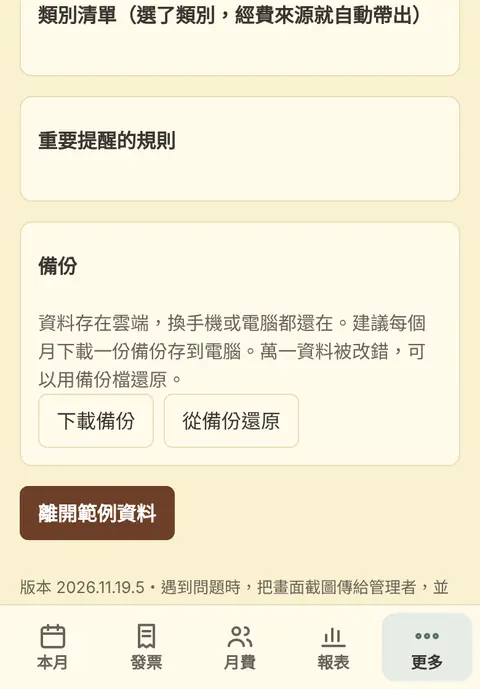
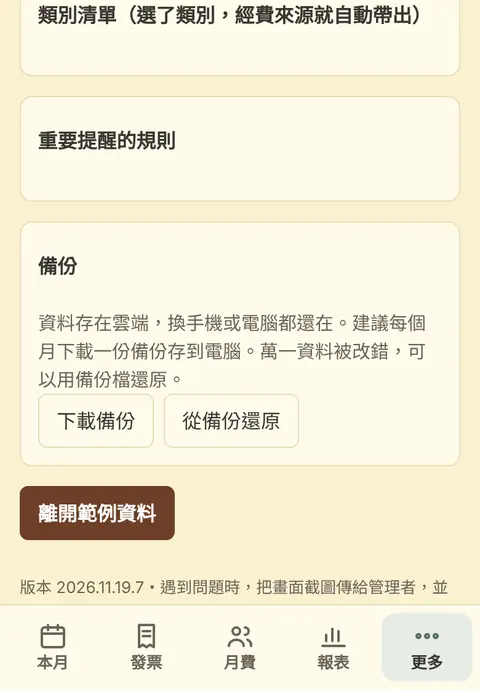
領款收據：生日禮金、考核獎金、外聘督導費的憑證印粘存單＋領據（地址、身分證只填不存）；考核獎金一次填所有員工；收據可勾選列印
Claude-Session: https://claude.ai/code/session_01Q8m2fzZpMdR6GMxaE229qM

diff --git a/app.js b/app.js
@@ -2,7 +2,7 @@ import { createFirebaseStore, createDemoStore } from './data.js';
 import { colName } from './xlsx.js';
 import { sampleData } from './sample.js';
 
-const VERSION = '2026.11.19.6';
+const VERSION = '2026.11.19.7';
 const $ = s => document.querySelector(s);
 const esc = s => String(s ?? '').replace(/[&<>"']/g, c => ({ '&': '&amp;', '<': '&lt;', '>': '&gt;', '"': '&quot;', "'": '&#39;' }[c]));
 const fmt = n => (n < 0 ? '-' : '') + Math.abs(Math.round(n || 0)).toLocaleString('en-US');
@@ -69,13 +69,17 @@ const openInv = () => invoices().filter(x => !x.voucher);
 const isBdayV = v => v.kind === 'hr' && (v.hrType === 'bday' || /生日禮金/.test(v.desc || ''));
 function bdayPetty(v) {
   const dt = new Date(v.createdAt || Date.now()), same = dt.getFullYear() - 1911 === v.y && dt.getMonth() + 1 === v.m;
-  const [c, ...rest] = (v.desc || '').split('-');
-  return { id: 'v:' + v.no, isV: true, vno: v.no, payer: '主任', y: v.y, m: v.m, d: same ? dt.getDate() : 1, ym: v.ym, cat: rest.length ? c : '員工福利', desc: rest.length ? rest.join('-') : v.desc, qty: 1, price: +v.amount || 0, voucher: v.no };
+  const [c, ...rest] = (v.desc || '').split('-'), old = rest.length && c === '員工福利';
+  return { id: 'v:' + v.no, isV: true, vno: v.no, payer: '主任', y: v.y, m: v.m, d: same ? dt.getDate() : 1, ym: v.ym, cat: '員工福利', desc: old ? rest.join('-') : v.desc, qty: 1, price: +v.amount || 0, voucher: v.no };
 }
 const pettyOpen = () => [...invoices().filter(x => x.payer === '主任' && !x.settled), ...vouchers().filter(v => isBdayV(v) && !v.settled).map(bdayPetty)];
 const vouchers = () => S().vouchers.filter(v => !v.deleted);
 const vouchersOf = (y, m) => vouchers().filter(v => v.y === y && v.m === m);
-const printableOf = (y, m) => vouchersOf(y, m).filter(v => v.kind === 'inv').sort((a, b) => a.no.localeCompare(b.no));
+// 要附「領款收據」的憑證：生日禮金、考核獎金（人事憑證），外聘督導費（發票合併的憑證）
+const isMeritV = v => v.kind === 'hr' && (v.hrType === 'merit' || /考核獎金/.test(v.desc || ''));
+const isExtV = v => v.kind === 'inv' && (/外聘督導/.test(v.cat || '') || (v.ids || []).some(id => /外聘督導/.test((S().invoices.find(x => x.id === id) || {}).cat || '')));
+const rcvKind = v => v.kind === 'hr' ? (isBdayV(v) ? 'bday' : isMeritV(v) ? 'merit' : '') : isExtV(v) ? 'ext' : '';
+const printableOf = (y, m) => vouchersOf(y, m).filter(v => v.kind === 'inv' || rcvKind(v)).sort((a, b) => a.no.localeCompare(b.no));
 const unprintedAll = () => vouchers().filter(v => v.kind === 'inv' && !v.printed);
 const pre = (y, m) => N.code + y + String(m).padStart(2, '0');
 // 下一個憑證編號：保留號碼之後，最小的還沒用過的號碼（垃圾桶裡的也算用過；在垃圾桶「永久刪除」後才空出來）
@@ -550,8 +554,8 @@ function fee() {
   $('#view').innerHTML = `
   <div class="rdate"><label for="rDate">${m} 月收據日期</label><input type="date" id="rDate" value="${isoOf(rd)}" max="9999-12-31">${rd.set ? '<button type="button" class="btn" id="rDateReset">改回預設</button>' : ''}<span class="meta">收據上印「${rocDate(rd)}」。${rd.set ? '這是這個月自己選的日期。' : `預設每月 ${+N.rcptDay || 15} 號，遇週末順延，可以改成別天。`}</span></div>
   <div class="tally"><span>應收<b>${fmt(total)}</b></span><span>收據號碼<b style="font-size:18px">${kids.length ? rcptNo(Math.min(...nos)) + '–' + rcptNo(Math.max(...nos)) : '—'}</b></span><span class="${d.rcptPrinted ? '' : 'warn'}">收據<b style="font-size:18px">${d.rcptPrinted ? '已印' : '還沒印'}</b></span></div>
-  <div class="actions start"><button type="button" class="btn primary" id="printRcptAll" ${kids.length ? '' : 'aria-disabled="true"'}>列印收據</button><button type="button" class="btn" id="addKid">＋ 新增幼兒</button><button type="button" class="btn" id="fpStart" ${FP ? 'aria-pressed="true"' : ''}>勾選改日期</button><button type="button" class="btn" id="borrow">協會借用號碼</button></div>
-  ${FP ? '<p class="status info">勾選要改日期的收據（月費、請款收據都可以），在下方選日期後按「套用日期」。</p>' : ''}
+  <div class="actions start"><button type="button" class="btn primary" id="printRcptAll" ${kids.length ? '' : 'aria-disabled="true"'}>列印收據</button><button type="button" class="btn" id="addKid">＋ 新增幼兒</button><button type="button" class="btn" id="fpStart" ${FP ? 'aria-pressed="true"' : ''}>勾選收據</button><button type="button" class="btn" id="borrow">協會借用號碼</button></div>
+  ${FP ? '<p class="status info">勾選收據後，可以只印勾選的幾張（按下方「列印勾選的」，號碼從下一號依序給勾選的），或在下方選日期後按「套用日期」改日期。</p>' : ''}
   <p class="hint">名單沿用上個月，月費和餐點費依上課天數和生日自動算。有延托、保險、退費的孩子，按「修改」再填。${d.rcptPrinted ? '印過的號碼不會再變；之後新增的孩子會用新的號碼。' : '收據號碼在列印時確定，印之前可能會變。'}</p>
   ${earlierUnprinted(y, m) ? `<p class="status">${earlierUnprinted(y, m)} 月的收據還沒印。先印這個月的話，${earlierUnprinted(y, m)} 月的號碼會排在這個月後面。</p>` : ''}
   ${kids.length ? `<div class="list">${kids.map((k, i) => {
@@ -569,13 +573,29 @@ function fee() {
   ${rcptSkip(y).length ? `<p class="hint">${y} 年已標記協會借用：${rcptSkip(y).slice(-10).map(rcptNo).join('、')} 號，收據會跳過這些號碼。</p>` : ''}
   ${FP ? `<div style="height:150px"></div><div class="mergebar" id="fpBar"><div class="main"><div class="title" id="fpCount">已選 ${FP.size} 張</div></div>
     <label class="fpdate">日期<input type="date" id="fpDate" value="${FPD || isoOf(rd)}" max="9999-12-31"></label>
-    <button type="button" class="btn" id="fpAll">全選月費</button><button type="button" class="btn" id="fpCancel">取消</button>
-    <button type="button" class="btn primary" id="fpApply" aria-disabled="${!FP.size}">套用日期</button></div>` : ''}`;
+    <button type="button" class="btn" id="fpApply" aria-disabled="${!FP.size}">套用日期</button>
+    <button type="button" class="btn" id="fpAll">${kids.length && kids.every(k => FP.has('k:' + k.id)) ? '全部不選' : '全選月費'}</button><button type="button" class="btn" id="fpCancel">取消</button>
+    <button type="button" class="btn primary" id="fpPrint" aria-disabled="${![...FP].some(id => id.startsWith('k:'))}">列印勾選的</button></div>` : ''}`;
+}
+// 印月費收據：kids 可以是全部或勾選的幾位。號碼照名單順序算，勾選的先拿到號碼；全部都印過才算「已印」
+function printReceipts(y, m, kids, hasXr) {
+  const all = monthKids(y, m), nos = receiptNos(y, m, kids);          // 印過的用原號碼，沒印過的從下一個空號依序給
+  return openPreview({
+    title: `收據（${kids.length} 位，每頁一位三聯）`, pages: kids.map((k, i) => receiptPage(k, nos[i], y, m)), goText: `列印收據（${kids.length} 頁）`,
+    onPrint: () => {
+      const d = monthDoc(y, m), fees = {}, rcptNos = {}; kids.forEach((k, i) => { fees[k.id] = (d.fees || {})[k.id] || {}; rcptNos[k.id] = nos[i] });
+      const done = all.every(k => rcptNos[k.id] || (d.rcptNos || {})[k.id]);
+      store.set('months', ymKey(y, m), { y, m, fees, rcptNos, ...(done ? { rcptPrinted: true } : {}) }).catch(fail());
+      const top = Math.max(...nos); if (top + 1 > rcptNext(y)) store.setSettings({ receiptNextY: { [y]: top + 1 } }).catch(fail());
+      if (kids.length < all.length) { FP = null; render() }
+      toast(done ? '收據已印好。' : `已印 ${kids.length} 張，還有 ${all.filter(k => !rcptNos[k.id] && !(d.rcptNos || {})[k.id]).length} 張沒印。${hasXr ? '請款收據請在下方各自按「列印」。' : ''}`);
+    }
+  });
 }
 // 勾選改日期：FP 是勾選的收據（k:幼兒 id、x:請款收據 id），FPD 是選的日期
 let FP = null, FPD = '';
 const fpTick = (id, name) => FP ? `<button type="button" class="tick" role="checkbox" aria-checked="${FP.has(id)}" data-fpick="${esc(id)}" aria-label="選取 ${esc(name)}"><i>✓</i>選取</button>` : '';
-function fpSync() { $('#fpCount').textContent = `已選 ${FP.size} 張`; $('#fpApply').setAttribute('aria-disabled', String(!FP.size)); document.querySelectorAll('[data-fpick]').forEach(b => b.setAttribute('aria-checked', FP.has(b.dataset.fpick))) }
+function fpSync() { const { y, m } = SEL_M.fee, ks = monthKids(y, m); $('#fpCount').textContent = `已選 ${FP.size} 張`; $('#fpApply').setAttribute('aria-disabled', String(!FP.size)); $('#fpPrint').setAttribute('aria-disabled', String(![...FP].some(id => id.startsWith('k:')))); $('#fpAll').textContent = ks.length && ks.every(k => FP.has('k:' + k.id)) ? '全部不選' : '全選月費'; document.querySelectorAll('[data-fpick]').forEach(b => b.setAttribute('aria-checked', FP.has(b.dataset.fpick))) }
 function fpApply() {
   const { y, m } = SEL_M.fee, iso = $('#fpDate').value, r = fromISO(iso), d = monthDoc(y, m);
   if (!r) return toast('請選日期。'); if (!FP.size) return toast('請先勾選收據。');
@@ -743,8 +763,8 @@ function vou() {
     <div class="row"><div class="main"><div class="title"><span class="amount">${pre(y, m)}01</span>　${esc(N.firstItem)}</div><div class="meta">${pill('委辦費-業務費')}</div></div><span class="amount">${fmt(d.supervisor ?? N.supervisor)}</span></div>
     ${pay.map((r, i) => `<div class="row"><div class="main"><div class="title"><span class="amount">${pre(y, m)}${String(i + 2).padStart(2, '0')}</span>　${esc(r.name)} ${y}年${m}月薪資</div><div class="meta">${pill(r.src)}</div></div><span class="amount">${fmt(r.amount)}</span></div>`).join('')}</div></details>` : ''}
   ${list.length ? `<div class="list">${list.map(v => `<div class="row"><div class="main"><div class="title"><span class="amount">${esc(v.no)}</span>　${esc(v.desc)}</div>
-    <div class="meta">${pill(v.src)}<span>受款人：${esc(v.kind === 'inv' ? payeeLabel(v) : v.payee)}</span>${v.kind === 'inv' ? `${v.printed ? `<span class="pill p-done">已印 ${esc(v.printedAt)}</span>` : '<span class="pill p-todo">還沒印</span>'}<span>${isWB(v) ? '一般紙' : '色紙'}</span>` : '<span>另外製作</span>'}${v.note ? '<span>有備註</span>' : ''}${v.printed && v.amountPrinted != null && v.amountPrinted !== v.amount ? `<span class="when-warn">印後改過金額（紙本是 ${fmt(v.amountPrinted)}）</span>` : ''}</div></div>
-    <span class="amount">${fmt(v.amount)}</span><div class="acts">${v.kind === 'inv' ? `<button type="button" class="edit" data-vinv="${esc(v.no)}">修改</button><button type="button" class="edit" data-printv="${esc(v.no)}">列印</button>` : ''}<button type="button" class="edit" data-cancelv="${esc(v.no)}">取消</button></div></div>`).join('')}</div>` : '<div class="empty">這個月還沒有憑證。到「發票」勾選發票，就能合併成憑證。</div>'}`;
+    <div class="meta">${pill(v.src)}<span>受款人：${esc(v.kind === 'inv' ? payeeLabel(v) : v.payee)}</span>${v.kind === 'inv' || rcvKind(v) ? `${v.printed ? `<span class="pill p-done">已印 ${esc(v.printedAt)}</span>` : '<span class="pill p-todo">還沒印</span>'}<span>${isWB(v) ? '一般紙' : '色紙'}</span>` : '<span>另外製作</span>'}${v.note ? '<span>有備註</span>' : ''}${v.printed && v.amountPrinted != null && v.amountPrinted !== v.amount ? `<span class="when-warn">印後改過金額（紙本是 ${fmt(v.amountPrinted)}）</span>` : ''}</div></div>
+    <span class="amount">${fmt(v.amount)}</span><div class="acts">${v.kind === 'inv' ? `<button type="button" class="edit" data-vinv="${esc(v.no)}">修改</button>` : ''}${v.kind === 'inv' || rcvKind(v) ? `<button type="button" class="edit" data-printv="${esc(v.no)}">列印</button>` : ''}<button type="button" class="edit" data-cancelv="${esc(v.no)}">取消</button></div></div>`).join('')}</div>` : '<div class="empty">這個月還沒有憑證。到「發票」勾選發票，就能合併成憑證。</div>'}`;
 }
 const pettyPicked = () => sortPetty(pettyOpen()).filter(x => !cashOff.has(x.id));
 const nextSettleN = () => Math.max(0, ...S().settlements.filter(s => s.y === CY && s.m === CM).map(s => +s.n || 0)) + 1;
@@ -797,9 +817,10 @@ function staff() {
    <div class="list paylist">${(N.staff || []).map((n, i) => { const v = bonusOf(y, n), last = bonusOf(y - 1, n); return `<div class="row"><div class="main"><div class="title">${esc(n)}</div><div class="meta">${pill('營運收入支應-年終獎金')}${v ? `<span class="pill p-done">${esc(v.no)}</span>` : last ? `<span>去年 ${fmt(last.amount)}</span>` : ''}</div></div>${v ? `<span class="amount">${fmt(v.amount)}</span>` : `<label class="payamt">金額<input type="number" inputmode="numeric" data-bonus="${i}" value="${esc(bonusDraft[n] || '')}"></label>`}</div>` }).join('')}</div>
    <div class="actions start"><button type="button" class="btn primary" id="bonusMake" ${(N.staff || []).every(n => bonusOf(y, n)) ? 'aria-disabled="true"' : ''}>建立年終獎金憑證</button></div>
    <p class="hint" style="font-size:14px">金額空白或 0 的不會建立。已經建立的顯示憑證編號；要改金額，到下方按「取消」再重新填。</p></section>` : ''}
+  ${(N.staff || []).length ? meritSection(y, m) : ''}
   <section><h2>其他人事支出<small>編號自動接在這個月最新一號之後</small></h2>
    <div class="actions start"><button type="button" class="btn" data-hr="bday">＋ 生日禮金</button><button type="button" class="btn" data-hr="sub">＋ 代班薪資</button><button type="button" class="btn" data-hr="bonus">＋ 年終獎金</button></div>
-   ${hr.length ? `<div class="list">${hr.map(v => `<div class="row"><div class="main"><div class="title"><span class="amount">${esc(v.no)}</span>　${esc(v.desc)}</div><div class="meta">${pill(v.src)}<span>${esc(v.payee)}</span></div></div><span class="amount">${fmt(v.amount)}</span><button type="button" class="edit" data-cancelv="${esc(v.no)}">取消</button></div>`).join('')}</div>` : ''}
+   ${hr.length ? `<div class="list">${hr.map(v => `<div class="row"><div class="main"><div class="title"><span class="amount">${esc(v.no)}</span>　${esc(v.desc)}</div><div class="meta">${pill(v.src)}<span>${esc(v.payee)}</span></div></div><span class="amount">${fmt(v.amount)}</span><div class="acts">${rcvKind(v) ? `<button type="button" class="edit" data-printv="${esc(v.no)}">列印</button>` : ''}<button type="button" class="edit" data-cancelv="${esc(v.no)}">取消</button></div></div>`).join('')}</div><p class="hint" style="font-size:14px">生日禮金、考核獎金按「列印」，會印粘存單和下面的領款收據。</p>` : ''}
   </section>`;
 }
 function trash() {
@@ -841,6 +862,7 @@ function set() {
    <div class="two"><label>${CY} 年下一張收據從幾號開始<input type="number" id="sRcpt" inputmode="numeric" value="${rcptNext(CY)}"></label><label>收據日期預設每月幾號<input type="number" id="sRDay" inputmode="numeric" min="1" max="31" value="${+N.rcptDay || 15}"></label></div>
    <p class="hint" style="font-size:14px">印過收據後，號碼會自動接下去，每年 1 月從 001 號重新開始。協會借用的號碼在「月費」頁標記。收據日期遇週六、週日順延，每個月也可以在「月費」頁最上面改。</p>
    <div class="two"><label>優化比收據預設幾號（空白＝跟月費一樣）<input type="number" id="sRDayOpt" inputmode="numeric" min="1" max="31" value="${+N.rcptDayOpt || ''}"></label><label>契約價金收據預設幾號（空白＝跟月費一樣）<input type="number" id="sRDayCon" inputmode="numeric" min="1" max="31" value="${+N.rcptDayContract || ''}"></label></div>
+   <label>領款收據「茲收到」後面的單位<input type="text" id="sRcvUnit" value="${esc(rcvUnitText())}"></label>
    <div class="two"><label>優化比收據繳款人<input type="text" id="sPayGov" value="${esc(N.payGov || '屏東縣政府')}"></label><label>契約價金收據繳款人<input type="text" id="sPayAssoc" value="${esc(N.payAssoc || '中華頭心手希望教育協會')}"></label></div>
    <div class="actions start"><button type="button" class="btn primary" id="saveRcpt">儲存</button></div>
   </details>
@@ -882,8 +904,8 @@ const HELP = [
   { id: 'merge', t: '合併成憑證', shot: 'merge', steps: ['到「發票」，還沒做憑證的發票會照「類別＋付款對象」分組，同一組就能合成一張憑證。', '按組名右邊的「全選這組」，或自己勾選要合併的幾張。', '按下方「合併成憑證」，編號、受款人、經費來源、用途說明、金額都會自動帶入。', '需要時可以改用途說明，或加一行備註（會印在簽章欄下方）。', '建立憑證需要網路，避免兩台裝置用到同一個編號。'] },
   { id: 'print', t: '列印憑證', shot: 'print', steps: ['到「更多 → 憑證與列印」，按「列印憑證」。', '還沒印的會先勾好；要補印的，在「要印哪幾張」清單自己勾起來。', '先印第 1 批委辦費（一般紙），再印第 2 批其他經費來源（色紙），畫面會說要放幾張色紙。', '可以左右滑動或按「上一張／下一張」看每一張。', '印出後才發現發票金額錯了：按那張憑證的「修改」，選要改的發票，改好後憑證金額、結報清單和年度報表會一起更新，編號不變。紙本手改就好，不一定要重印。'] },
   { id: 'cash', t: '零用金結算', shot: 'cash', steps: ['每月兩次，到「更多 → 零用金結算」。', '清單列主任代墊的發票，還有生日禮金（主任代墊），照憑證編號排列，會計可以拿著憑證依序對帳。', '預設全部勾選；這次只要結算其中幾張，把其他的勾勾拿掉，沒勾的會留到下一次。', '按「結算到今天」。還有發票沒做憑證、憑證沒印的，會先提醒你。', '結算過的清單在下方「已結算」，可以再列印；結算後才發現問題，按「退回」，發票回到本期改好再重新結算。'] },
-  { id: 'staff', t: '人事費', shot: 'staff', steps: ['薪資清冊做好後，到「更多 → 人事費」。', '每位員工填這個月的金額，經費來源預設委辦費-人事費。', '委辦人事費不夠時，按那位員工的「拆單」，填委辦費付多少，其餘自動改由營運收入支應。', '按「儲存本月人事費」。員工的生日月份在「設定 → 員工名單」填好，生日那個月儲存人事費時會自動建立生日禮金（預設 500 元），首頁也會提醒。', '12 月會多一區「年度年終獎金」，每位員工直接填金額，按「建立年終獎金憑證」一次做好。代班薪資和其他月份的生日禮金、年終獎金在下方「其他人事支出」新增。'] },
-  { id: 'fee', t: '月費與收據', shot: 'fee', steps: ['名單沿用上個月，月費和餐點費依上課天數和生日自動算。餐點費看孩子到當月 1 號滿幾個月：未滿 6 個月不收、未滿 1 歲 300 元、滿 1 歲 600 元。', '有延托、保險、退費的孩子，按「修改」填寫；退費填負數。', '按「列印收據」，每位孩子一頁三聯。收據號碼在列印時確定，印過的不會再變；每年 1 月從 001 號重新開始。', '協會借用的收據號碼，按「協會借用號碼」標記，之後會跳過。', '收據日期在頁面最上面，預設每月 15 號（遇週末順延），每個月可以自己改；預設幾號在「設定 → 收據」改，優化比、契約價金也可以設不同的預設日。', '有幾張要用不同的日期：按「勾選改日期」，像發票一樣勾選收據，在下方選日期後按「套用日期」。', '頁面下方「請款收據」：1、4、7、10 月會出現優化比（繳款人預設屏東縣政府；1 月是前一年第四期），1、2、7、10 月會出現契約價金（繳款人預設協會）。按「填寫」確認金額、貼上摘要，再按「列印」。其他要開的收據按「＋ 其他收據」。'] },
+  { id: 'staff', t: '人事費', shot: 'staff', steps: ['薪資清冊做好後，到「更多 → 人事費」。', '每位員工填這個月的金額，經費來源預設委辦費-人事費。', '委辦人事費不夠時，按那位員工的「拆單」，填委辦費付多少，其餘自動改由營運收入支應。', '按「儲存本月人事費」。員工的生日月份在「設定 → 員工名單」填好，生日那個月儲存人事費時會自動建立生日禮金（預設 500 元），首頁也會提醒。', '生日禮金、考核獎金和外聘督導費的憑證，按「列印」會先填領款收據（日期、姓名、服務單位等；地址和身分證字號可以留空給領款人手寫，填了也不會存起來），印成上面粘存單、下面領款收據。', '考核獎金：打開「考核獎金（一次填所有員工）」，選期別，每位員工選等第（優等 5,000、甲等 3,000 會自動帶入，可改），按「建立考核獎金憑證」。', '12 月會多一區「年度年終獎金」，每位員工直接填金額，按「建立年終獎金憑證」一次做好。代班薪資和其他月份的生日禮金、年終獎金在下方「其他人事支出」新增。'] },
+  { id: 'fee', t: '月費與收據', shot: 'fee', steps: ['名單沿用上個月，月費和餐點費依上課天數和生日自動算。餐點費看孩子到當月 1 號滿幾個月：未滿 6 個月不收、未滿 1 歲 300 元、滿 1 歲 600 元。', '有延托、保險、退費的孩子，按「修改」填寫；退費填負數。', '按「列印收據」，每位孩子一頁三聯。收據號碼在列印時確定，印過的不會再變；每年 1 月從 001 號重新開始。', '協會借用的收據號碼，按「協會借用號碼」標記，之後會跳過。', '收據日期在頁面最上面，預設每月 15 號（遇週末順延），每個月可以自己改；預設幾號在「設定 → 收據」改，優化比、契約價金也可以設不同的預設日。', '只想先印幾張：按「勾選收據」，勾選要印的（可以全選、全部不選），按「列印勾選的」；沒勾的之後再印。', '有幾張要用不同的日期：一樣按「勾選收據」，勾選後在下方選日期，按「套用日期」。', '頁面下方「請款收據」：1、4、7、10 月會出現優化比（繳款人預設屏東縣政府；1 月是前一年第四期），1、2、7、10 月會出現契約價金（繳款人預設協會）。按「填寫」確認金額、貼上摘要，再按「列印」。其他要開的收據按「＋ 其他收據」。'] },
   { id: 'report', t: '報表', shot: 'report', steps: ['「年度經費報表」照每月報表的格式，自動算每月收入、支出、損益，和委辦費、行管費用了幾 %。', '優化比、提升托育品質、縣府補助款到帳時，按「＋ 新增撥款收入」；補助款要選期別（第一期、第二期⋯），每一期各一列。', '按「列印（A4 橫式）」印一頁；按「匯出 Excel」下載和原本格式一樣的 Excel（標楷體、顏色、公式）。', '委辦業務費有項目快用完或超支時，報表頁會列出「不夠用的項目」，按「補足」選要從哪一項轉出、金額，業務費總額不變；挪用紀錄可以還原。', '系統啟用前的月份，按「從 Excel 補登」選原本的經費明細檔，核對數字後按「補登」。補登之後才在系統新增的憑證、撥款收入會自動加上去；Excel 那個月沒有月費的，用系統算的月費。要交縣府時按「產出核銷報表」。'] },
   { id: 'trash', t: '刪錯了怎麼辦', shot: 'trash', steps: ['刪除的發票、取消的憑證會在「更多 → 垃圾桶」放 30 天。', '按「救回」就回到原本的地方，任何一台裝置都能救。', '剛刪掉時，畫面下方的提示也有「復原」可以按。', '憑證做錯想沿用同一個編號：先取消憑證，再到垃圾桶按「永久刪除」，下一張新做的憑證就會用這個編號。'] },
   { id: 'backup', t: '備份與還原', shot: 'backup', steps: ['建議每個月到「更多 → 設定 → 備份」按「下載備份」，存到電腦。', '萬一資料被改錯，按「從備份還原」，選那個備份檔。', '還原前會先自動下載一份目前的資料，還原錯了還能再還原回來。', '備份之後才新增的資料不會被刪掉。', '管理者每月 25 號起會看到提醒，到「設定 → 備份」按「一次下載四間」，會下載四間的每月報表（Excel）和備份（還原用）兩個檔案。還原時選這個四間的備份檔也可以，會自動取出目前這間。'] },
@@ -909,16 +931,67 @@ const ownName = n => !!n && !isPI(n) && [N.director, ...(N.staff || [])].some(x 
 const payeeOwn = v => !!v.own || ownName(v.payee) || (v.kind === 'inv' && (v.ids || []).some(id => S().invoices.find(x => x.id === id)?.payer === '主任'));
 const nurseryPrefix = (n, own) => !n || /公托/.test(n) || !own ? n || '' : `${N.short}公托 ${n}`;
 const payeeLabel = v => nurseryPrefix(v.payee, payeeOwn(v));
-function voucherSheet(v) {
+// 金額國字大寫：4000 → 肆仟、500 → 伍佰、10500 → 壹萬零伍佰
+function cnMoney(n) {
+  n = Math.round(Math.abs(+n || 0)); if (!n) return '零';
+  const D = '零壹貳參肆伍陸柒捌玖', U = ['', '拾', '佰', '仟'];
+  const sec = x => { let o = '', zero = false; for (let i = 3; i >= 0; i--) { const d = Math.floor(x / 10 ** i) % 10; if (d) { if (zero && o) o += '零'; o += D[d] + U[i]; zero = false } else zero = true } return o };
+  const parts = [[Math.floor(n / 1e8), '億'], [Math.floor(n / 1e4) % 1e4, '萬'], [n % 1e4, '']];
+  let o = '', gap = false;
+  for (const [x, u] of parts) { if (x) { if (o && (gap || x < 1000)) o += '零'; o += sec(x) + u; gap = false } else if (o) gap = true }
+  return o;
+}
+/* 領款收據（貼在粘存單虛線下面）：生日禮金、考核獎金、外聘督導費。
+   地址、身分證字號只在列印前填在視窗裡，不會存起來；空白就印成讓領款人手寫的格子。 */
+const rcvUnitText = () => N.rcvUnit || `${N.assoc}-${N.short}公托`;
+function rcvDefault(v) {
+  const k = rcvKind(v), today = new Date();
+  const base = { kind: k, date: `${today.getFullYear()}-${String(today.getMonth() + 1).padStart(2, '0')}-${String(today.getDate()).padStart(2, '0')}`, unit: rcvUnitText(), addr: '', idno: '' };
+  if (k === 'bday') return { ...base, name: v.payee, who: '員工', reason: `${v.m}月生日禮金`, org: N.full, detail: `生日禮金 ${v.amount}元` };
+  if (k === 'merit') return { ...base, name: v.payee, who: '', reason: `${v.meritPeriod || ''}考核獎金`, org: N.full, detail: `${v.meritPeriod || ''}考核結果為${v.meritGrade || '　　'}，獎勵新台幣${cnMoney(v.amount)}元整。` };
+  const inv = (v.ids || []).map(id => S().invoices.find(x => x.id === id)).filter(Boolean).sort((a, b) => a.ym - b.ym || a.d - b.d);
+  const nm = ((inv[0] || {}).desc || '').match(/^\s*(\S+?)\s*老師/);
+  return { ...base, name: nm ? nm[1] : '', who: '', reason: '老師外聘督導費用', org: '', detail: inv.map(x => `${x.y}年${x.m}月${x.d}日 外聘督導費用 ${amt(x)}元`).join('\n') };
+}
+function rcvSlip(v, r) {
+  const [Y, M, D] = (r.date || '').split('-').map(Number), blank = w => `<span class="rblank" style="min-width:${w}em"></span>`;
+  const val = (t, w) => t ? esc(t) : blank(w);
+  return `<div class="rcv"><h4 style="margin:10px 0 4px;letter-spacing:12px">領款收據</h4>
+  <div style="text-align:right">${Y ? `${Y - 1911} 年 ${M} 月 ${D} 日` : '　　年　　月　　日'}</div>
+  <p>茲收到${esc(r.unit)} 發給 ${r.who ? esc(r.who) + ' ' : ''}<u>&nbsp;${val(r.name, 5)}&nbsp;</u> ${esc(r.reason)}</p>
+  <p>新臺幣 ${cnMoney(v.amount)} 元整</p><p style="padding-left:3em">此據。</p><p>領款人：</p>
+  <div class="rlines"><div>姓名：${val(r.name, 8)}<span style="margin-left:3em">（簽章）</span></div><div>服務單位：${val(r.org, 16)}</div><div>戶籍地址：${val(r.addr, 22)}</div><div>身分證字號（或護照號碼）：${val(r.idno, 12)}</div><div>款項內容及計算說明：</div><div style="padding-left:2em;white-space:pre-wrap">${r.detail ? esc(r.detail) : blank(22)}</div></div></div>`;
+}
+function voucherSheet(v, rcv) {
   const s = String(Math.round(v.amount)).padStart(6, ' ').split('');
+  if (rcv === undefined && rcvKind(v)) rcv = rcvDefault(v);
+  // 生日禮金、考核獎金由主任代墊，受款人印主任
+  const payee = v.kind === 'hr' && (isBdayV(v) || isMeritV(v)) ? nurseryPrefix(N.director || v.payee, true) : payeeLabel(v);
   return `<h3>${esc(N.assoc)}</h3><h4>支出憑證粘存單</h4>
-  <div style="margin:0 0 6px">受款人：${esc(payeeLabel(v))}</div>
+  <div style="margin:0 0 6px">受款人：${esc(payee)}</div>
   <table><thead><tr><th rowspan="2">憑證編號</th><th rowspan="2">經費來源</th><th rowspan="2">用途說明</th><th colspan="6">金額</th></tr>
   <tr>${['十萬', '萬', '千', '百', '十', '元'].map(t => `<th class="dig">${t}</th>`).join('')}</tr></thead>
   <tbody><tr><td style="white-space:nowrap">${esc(v.no)}</td><td style="white-space:nowrap">${esc(v.src)}</td><td>${esc(N.short)}公托-${esc(v.desc)}</td>${s.map(c => `<td class="dig">${c.trim()}</td>`).join('')}</tr></tbody></table>
   <div class="sign"><span>經手人</span><span>計畫主持人</span><span>會計</span><span>出納</span><span>理事長</span></div>
   ${v.note ? `<div class="pnote">備註：${esc(v.note)}</div>` : ''}
-  <div class="cut">憑　證　黏　貼　線</div><div class="glue">（以下貼發票）</div>`;
+  <div class="cut">憑　證　黏　貼　線</div>${rcv ? rcvSlip(v, rcv) : '<div class="glue">（以下貼發票）</div>'}`;
+}
+// 列印單張憑證：要附領據的先填領據資料（不會存起來）
+function printVoucher(v) {
+  const done = () => store.update('vouchers', v.no, { printed: true, printedAt: TODAY, amountPrinted: null }).catch(fail());
+  if (!rcvKind(v)) return openPreview({ title: `支出憑證 ${v.no}`, pages: [voucherSheet(v)], onPrint: done });
+  const r = rcvDefault(v), f = (id, label, val, ph = '', area) => `<label>${label}${area ? `<textarea id="${id}" rows="2" placeholder="${ph}">${esc(val)}</textarea>` : `<input type="text" id="${id}" value="${esc(val)}" placeholder="${ph}">`}</label>`;
+  ask(`${v.no} 領款收據`, `<p class="hint" style="font-size:14px">這些資料只用來列印，<b>不會存起來</b>。空白的欄位會印成空格，讓領款人手寫。</p>
+   <div class="two"><label>日期<input type="date" id="rvDate" value="${r.date}" max="9999-12-31"></label>${f('rvName', '領款人姓名', r.name)}</div>
+   ${f('rvReason', `發給事由（印在「發給 ${r.name || '姓名'}」後面）`, r.reason)}
+   ${f('rvOrg', '服務單位', r.org, '空白＝手寫')}
+   ${f('rvAddr', '戶籍地址', '', '空白＝手寫')}
+   ${f('rvId', '身分證字號（或護照號碼）', '', '空白＝手寫')}
+   ${f('rvDetail', '款項內容及計算說明', r.detail, '', true)}`, () => {
+    const g = id => $('#' + id).value.trim();
+    const rr = { ...r, date: g('rvDate'), name: g('rvName'), reason: g('rvReason'), org: g('rvOrg'), addr: g('rvAddr'), idno: g('rvId'), detail: g('rvDetail') };
+    setTimeout(() => openPreview({ title: `支出憑證＋領款收據 ${v.no}`, pages: [voucherSheet(v, rr)], onPrint: done }));
+  }, '預覽列印');
 }
 function cashSheet(rows, title, y, m) {
   const t = rows.reduce((a, x) => a + amt(x), 0);
@@ -1187,7 +1260,7 @@ function showVP(keep) {
    <p class="hint" style="font-size:14px">還沒印的已先勾好；要補印的，把它勾起來。</p>
    <div class="pickscroll">${inB.map(v => `<div class="pickrow" data-idx="${selV.indexOf(v)}"><label class="check"><input type="checkbox" data-vpick="${esc(v.no)}" ${VP.chosen.has(v.no) ? 'checked' : ''}><span><b>${esc(v.no)}</b> ${esc(v.desc)}<br><span class="meta" style="display:inline">${v.printed ? '已印 ' + esc(v.printedAt) : '還沒印'}・${fmt(v.amount)} 元</span></span></label>${VP.chosen.has(v.no) ? `<button type="button" class="edit" data-jump="${selV.indexOf(v)}">看</button>` : ''}</div>`).join('') || '<p class="hint">這一批沒有憑證。</p>'}</div></details>`;
   openPreview({
-    title: `列印憑證（${y} 年 ${m} 月）`, pages: selV.map(voucherSheet), tools, side, keep,
+    title: `列印憑證（${y} 年 ${m} 月）`, pages: selV.map(v => voucherSheet(v)), tools, side, keep,
     goText: VP.batch === 1 ? `列印第 1 批（${selV.length} 張）` : `列印第 2 批（${selV.length} 張色紙）`,
     onPrint: () => {
       store.batch(selV.map(v => ({ c: 'vouchers', id: v.no, update: { printed: true, printedAt: TODAY, amountPrinted: null } }))).catch(fail());
@@ -1403,7 +1476,7 @@ $('#dlgWiz').addEventListener('input', e => { if (e.target.id === 'wQty' || e.ta
 $('#dlgWiz').addEventListener('keydown', e => { if (e.key === 'Enter' && !e.isComposing && e.target.tagName === 'INPUT') { e.preventDefault(); wizNext() } });
 
 /* ===== 合併成憑證 ===== */
-const autoDesc = list => { const cat = list[0].cat; if (cat === '幼兒食材') return '幼兒食材'; return cat + '：' + [...new Set(list.map(x => x.desc))].join('、'); };
+const autoDesc = list => { const cat = list[0].cat; if (cat === '幼兒食材') return '幼兒食材'; if (/外聘督導/.test(cat)) return [...new Set(list.map(x => `${x.m}/${x.d}${x.desc}`))].join('、'); return cat + '：' + [...new Set(list.map(x => x.desc))].join('、'); };
 function openMerge() {
   const list = [...sel].map(id => S().invoices.find(x => x.id === id)).filter(Boolean).sort((a, b) => a.ym - b.ym || a.d - b.d);
   $('#mNo').textContent = nextNo();
@@ -1452,7 +1525,7 @@ const bdayStaff = m => (N.staff || []).filter(n => bdayOf(n) === m);
 // 這個月已經有這位員工的生日禮金（取消的也算，避免取消後又自動做出來）
 const hasBday = (y, m, name) => S().vouchers.some(v => v.kind === 'hr' && v.y === y && v.m === m && v.payee === name && (v.hrType === 'bday' || /生日禮金/.test(v.desc || '')));
 const bdayMissing = (y, m) => bdayStaff(m).filter(n => !hasBday(y, m, n));
-const bdayData = (y, m, name, a = bdayAmt()) => ({ payee: name, src: '營運收入支應-人事費', desc: `員工福利-${m}月(${name})生日禮金`, amount: a, hrType: 'bday' });
+const bdayData = (y, m, name, a = bdayAmt()) => ({ payee: name, src: '營運收入支應-人事費', desc: `${m}月${name}生日禮金`, amount: a, hrType: 'bday' });   // 印成「萬丹公托-12月○○○生日禮金」
 function makeBdays(y, m, lead) {
   const miss = bdayMissing(y, m); if (!miss.length) return Promise.resolve([]);
   return createHrBatch(miss.map(n => bdayData(y, m, n))).then(vs => { toast(`${lead || ''}已建立 ${vs.length} 張生日禮金：${vs.map(v => `${v.no}（${v.payee}）`).join('、')}。`); return vs }).catch(fail('生日禮金沒有建立成功，請確認網路後再試一次。'));
@@ -1460,6 +1533,20 @@ function makeBdays(y, m, lead) {
 /* 年終獎金：12 月在人事費頁一次填所有員工 */
 const bonusOf = (y, name) => S().vouchers.find(v => !v.deleted && v.kind === 'hr' && v.y === y && v.payee === name && (v.hrType === 'bonus' || /年終獎金/.test(v.desc || '')));
 const bonusDraft = {};
+const MERIT = { 優等: 5000, 甲等: 3000, 乙等: 0 };
+let meritPer = null;          // 這次要做的考核期別，例如「115年度上半年」
+const meritDraft = {};          // { 姓名: { g: 等第, a: 金額 } }，畫面重畫不會不見
+const meritOf = (per, name) => S().vouchers.find(v => !v.deleted && isMeritV(v) && v.meritPeriod === per && v.payee === name);
+const meritData = (per, name, g, a) => ({ payee: name, src: '營運收入支應-人事費', desc: `${per}考核獎金`, amount: a, hrType: 'merit', meritPeriod: per, meritGrade: g });
+function meritSection(y, m) {
+  const per = meritPer || `${m <= 6 ? y - 1 : y}年度${m <= 6 ? '下' : '上'}半年`, staffs = N.staff || [];
+  const opts = ['', ...Object.keys(MERIT)];
+  return `<details class="card pickbox" id="meritBox" ${meritPer ? 'open' : ''}><summary>考核獎金（一次填所有員工）</summary>
+   <label>考核期別<select id="meritPer">${[y - 1, y].flatMap(yy => [`${yy}年度上半年`, `${yy}年度下半年`]).map(o => `<option ${o === per ? 'selected' : ''}>${o}</option>`).join('')}</select></label>
+   <div class="list paylist">${staffs.map((n, i) => { const v = meritOf(per, n), dr = meritDraft[n] || {}; return `<div class="row"><div class="main"><div class="title">${esc(n)}</div><div class="meta">${v ? `<span class="pill p-done">${esc(v.no)}</span><span>${esc(v.meritGrade || '')}</span>` : `<select data-mgrade="${i}" aria-label="${esc(n)} 考核等第" style="width:auto">${opts.map(o => `<option value="${o}" ${o === (dr.g || '') ? 'selected' : ''}>${o || '等第'}</option>`).join('')}</select>`}</div></div>${v ? `<span class="amount">${fmt(v.amount)}</span>` : `<label class="payamt">金額<input type="number" inputmode="numeric" data-mamt="${i}" value="${esc(dr.a ?? '')}"></label>`}</div>` }).join('')}</div>
+   <div class="actions start"><button type="button" class="btn primary" id="meritMake">建立考核獎金憑證</button></div>
+   <p class="hint" style="font-size:14px">選等第會帶入金額（優等 5,000、甲等 3,000，可以改）。金額空白或 0 的不會建立。經費來源：營運收入支應-人事費。每張都會附領款收據。</p></details>`;
+}
 const bonusData = (y, name, a) => ({ payee: name, src: '營運收入支應-年終獎金', desc: `${y}年度年終獎金(${name})`, amount: a, hrType: 'bonus' });
 
 /* ===== 孩子 ===== */
@@ -1693,7 +1780,8 @@ document.addEventListener('click', e => {
   if (t.dataset.kid) return openKid(t.dataset.kid);
   if (t.id === 'fpStart') { FP = FP ? null : new Set(); FPD = ''; return render() }
   if (t.dataset.fpick) { if (!FP) return; const id = t.dataset.fpick; FP.has(id) ? FP.delete(id) : FP.add(id); return fpSync() }
-  if (t.id === 'fpAll') { const { y, m } = SEL_M.fee; monthKids(y, m).forEach(k => FP.add('k:' + k.id)); return fpSync() }
+  if (t.id === 'fpAll') { const { y, m } = SEL_M.fee, ks = monthKids(y, m), all = ks.every(k => FP.has('k:' + k.id)); ks.forEach(k => all ? FP.delete('k:' + k.id) : FP.add('k:' + k.id)); return fpSync() }
+  if (t.id === 'fpPrint') { const { y, m } = SEL_M.fee, ks = monthKids(y, m).filter(k => FP.has('k:' + k.id)); if (!ks.length) return toast('請先勾選月費收據。'); return printReceipts(y, m, ks, [...FP].some(id => id.startsWith('x:'))) }
   if (t.id === 'fpCancel') { FP = null; FPD = ''; return render() }
   if (t.id === 'fpApply') return t.getAttribute('aria-disabled') === 'true' ? toast('請先勾選收據。') : fpApply();
   if (t.dataset.delcat) return delCategory(t.dataset.delsrc, t.dataset.delcat, t);
@@ -1706,7 +1794,7 @@ document.addEventListener('click', e => {
     return toast(r && r.no ? `已刪除收據 ${rcptNo(r.no)}。這個號碼不會再用到，紙本請註明作廢。` : '已刪除收據。', () => { store.set('months', ymKey(y, m), { y, m, xr: { [id]: r } }).catch(fail()); toast('已復原') });
   }
   if (t.id === 'rDateReset') { const { y, m } = SEL_M.fee; store.set('months', ymKey(y, m), { y, m, rcptDate: null }).catch(fail()); const r = autoReceiptDate(y, m); return toast(`${m} 月收據日期改回 ${r.m}/${r.d}。`) }
-  if (t.dataset.printv) { const v = S().vouchers.find(x => x.no === t.dataset.printv); return openPreview({ title: `支出憑證 ${v.no}`, pages: [voucherSheet(v)], onPrint: () => store.update('vouchers', v.no, { printed: true, printedAt: TODAY, amountPrinted: null }).catch(fail()) }) }
+  if (t.dataset.printv) return printVoucher(S().vouchers.find(x => x.no === t.dataset.printv));
   if (t.dataset.cancelv) {
     const v = S().vouchers.find(x => x.no === t.dataset.cancelv);
     if (v.settled) { const st = S().settlements.find(s => s.id === v.settled); return toast(`這張已列在${st ? `${st.m} 月第 ${st.n} 次` : ''}零用金結報清單，請先到「零用金結算」按「退回」再取消。`) }
@@ -1802,16 +1890,7 @@ document.addEventListener('click', e => {
     case 'printFood': { const { y, m } = SEL_M.food; return openPreview({ title: '食材費統計', pages: [foodSheet(y, m)] }) }
     case 'printRcptAll': {
       const { y, m } = SEL_M.fee, kids = monthKids(y, m); if (!kids.length) return toast('還沒有幼兒名單。');
-      const nos = receiptNos(y, m, kids);
-      return openPreview({
-        title: `收據（${kids.length} 位，每頁一位三聯）`, pages: kids.map((k, i) => receiptPage(k, nos[i], y, m)), goText: `列印收據（${kids.length} 頁）`,
-        onPrint: () => {
-          const d = monthDoc(y, m), fees = {}, rcptNos = {}; kids.forEach((k, i) => { fees[k.id] = (d.fees || {})[k.id] || {}; rcptNos[k.id] = nos[i] });
-          store.set('months', ymKey(y, m), { y, m, fees, rcptNos, rcptPrinted: true }).catch(fail());
-          const top = Math.max(...nos); if (top + 1 > rcptNext(y)) store.setSettings({ receiptNextY: { [y]: top + 1 } }).catch(fail());
-          toast('收據已印好。');
-        }
-      });
+      return printReceipts(y, m, kids);
     }
     case 'addKid': return openKid(null);
     case 'borrow': { const { y } = SEL_M.fee; return ask(`協會借用收據號碼（${y} 年）`, `<p class="hint">標記後，這些號碼會被跳過，之後印 ${y} 年的收據不會重複。</p><label>從幾號開始<input type="number" inputmode="numeric" id="bFrom" value="${rcptNext(y)}"></label><label>借用幾張<input type="number" inputmode="numeric" id="bCnt" value="3"></label>`, () => {
@@ -1824,6 +1903,19 @@ document.addEventListener('click', e => {
       store.set('months', ymKey(y, m), { y, m, payroll: rows, supervisor: +$('#supAmt').value || 0 }).catch(fail());
       if (bdayMissing(y, m).length) return makeBdays(y, m, `已儲存 ${m} 月人事費，也`);
       return toast(`已儲存 ${m} 月人事費。`);
+    }
+    case 'meritMake': {
+      const { y } = SEL_M.staff, per = $('#meritPer').value;
+      const list = (N.staff || []).map(n => ({ n, ...(meritDraft[n] || {}) })).filter(r => +r.a > 0 && !meritOf(per, r.n));
+      if (!list.length) return toast('請先選等第或填金額。');
+      const total = list.reduce((a, r) => a + +r.a, 0);
+      return ask('建立考核獎金憑證', `<p class="hint">${esc(per)}考核獎金，會建立 ${list.length} 張，共 ${fmt(total)} 元：</p><div class="list">${list.map(r => `<div class="row"><div class="main"><div class="title">${esc(r.n)}</div><div class="meta"><span>${esc(r.g || '')}</span></div></div><span class="amount">${fmt(+r.a)}</span></div>`).join('')}</div>`, () => {
+        createHrBatch(list.map(r => meritData(per, r.n, r.g || '', +r.a))).then(vs => {
+          vs.forEach(v => delete meritDraft[v.payee]); meritPer = per;
+          if (!dirty) render(); else toast('已建立，存好人事費後畫面會更新。');
+          toast(`已建立 ${vs.length} 張考核獎金：${vs[0].no}～${vs[vs.length - 1].no}。按各張的「列印」印領款收據。`);
+        }).catch(fail('沒有全部建立成功，請確認網路後再試一次；已建立的會顯示編號。'));
+      }, '建立');
     }
     case 'bdayMake': { const { y, m } = SEL_M.staff; return makeBdays(y, m) }
     case 'bonusMake': {
@@ -1876,7 +1968,7 @@ document.addEventListener('click', e => {
       const n = +$('#sRcpt').value, day = +$('#sRDay').value; if (!(n > 0)) return toast('請填號碼。'); if (!(day >= 1 && day <= 31)) return toast('收據日期請填 1 到 31。');
       const dOpt = +$('#sRDayOpt').value || 0, dCon = +$('#sRDayCon').value || 0;
       if (dOpt > 31 || dCon > 31 || dOpt < 0 || dCon < 0) return toast('日期請填 1 到 31，或留空白。');
-      store.setSettings({ receiptNextY: { [CY]: n }, rcptDay: day, rcptDayOpt: dOpt, rcptDayContract: dCon, payGov: $('#sPayGov').value.trim() || '屏東縣政府', payAssoc: $('#sPayAssoc').value.trim() || '中華頭心手希望教育協會' }).catch(fail()); return toast('已儲存。')
+      store.setSettings({ receiptNextY: { [CY]: n }, rcptDay: day, rcptDayOpt: dOpt, rcptDayContract: dCon, payGov: $('#sPayGov').value.trim() || '屏東縣政府', payAssoc: $('#sPayAssoc').value.trim() || '中華頭心手希望教育協會', rcvUnit: $('#sRcvUnit').value.trim() }).catch(fail()); return toast('已儲存。')
     }
     case 'saveBudget': {
       const budget = {}, usedBefore = {};
@@ -1921,8 +2013,12 @@ addEventListener('online', renderNet); addEventListener('offline', renderNet);
 // 設定、人事頁有還沒儲存的修改時，別台裝置的資料更新不要把畫面重畫掉
 let dirty = false;
 // 年終獎金的金額另外記（bonusDraft），畫面重畫也不會不見，所以不算「還沒儲存」
-document.addEventListener('input', e => { if (e.target.dataset.bonus != null) { bonusDraft[(N.staff || [])[+e.target.dataset.bonus]] = e.target.value; return } if (e.target.closest('#view') && (view === 'set' || view === 'staff')) dirty = true }, true);
-document.addEventListener('change', e => { if (e.target.dataset.bonus != null) return; if (e.target.closest('#view') && (view === 'set' || view === 'staff')) dirty = true }, true);
+document.addEventListener('input', e => { const ds = e.target.dataset || {};
+  if (ds.mamt != null || ds.mgrade != null) { const n = (N.staff || [])[+(ds.mamt ?? ds.mgrade)], r = meritDraft[n] = meritDraft[n] || {};
+    if (ds.mgrade != null) { r.g = e.target.value; if (e.target.value in MERIT) { r.a = MERIT[e.target.value]; const inp = document.querySelector(`[data-mamt="${ds.mgrade}"]`); if (inp) inp.value = r.a } } else r.a = e.target.value; return }
+  if (e.target.dataset.bonus != null) { bonusDraft[(N.staff || [])[+e.target.dataset.bonus]] = e.target.value; return } if (e.target.closest('#view') && (view === 'set' || view === 'staff')) dirty = true }, true);
+document.addEventListener('change', e => { const ds = e.target.dataset || {}; if (ds.bonus != null || ds.mamt != null || ds.mgrade != null) return;
+  if (e.target.id === 'meritPer') { meritPer = e.target.value; return render() } if (e.target.closest('#view') && (view === 'set' || view === 'staff')) dirty = true }, true);
 document.addEventListener('click', e => { const b = e.target.closest('button'); if (b && /^save|^addCat$|^logout$/.test(b.id || '')) dirty = false; if (b && b.dataset.mode) dirty = false }, true);
 const _render = render;
 render = function () { if (dirty && (view === 'set' || view === 'staff')) return; _render(); };

diff --git a/style.css b/style.css
@@ -224,6 +224,10 @@ textarea{min-height:72px;resize:vertical}
 .a4 .sign{display:grid;grid-template-columns:1fr 2.37fr 1fr 1fr 2.03fr;margin:30px 8px 20px;font-size:15px}
 .a4 .pnote{margin:10px 8px;font-size:14px;white-space:pre-wrap}
 .a4 .cut{margin:18px 0 0;text-align:center;letter-spacing:6px;font-weight:700;border-top:2px dotted #000;padding-top:4px}
+.a4 .rcv{font-size:17px;line-height:1.9}
+.a4 .rcv p{margin:2px 0}
+.a4 .rlines{padding-left:3em;line-height:2.3}
+.a4 .rblank{display:inline-block;border-bottom:1px solid #000;height:1.2em;vertical-align:bottom}
 .a4 .glue{margin-top:16px;text-align:center;color:#aaa;font-size:14px;letter-spacing:4px}
 .a4 .rhead{display:flex;justify-content:space-between;align-items:flex-end;font-size:14px}
 .a4 .rbox td{height:60px;vertical-align:top}

diff --git a/sw.js b/sw.js
@@ -1,5 +1,5 @@
 // 先問網站有沒有新版（不用瀏覽器暫存；3 秒內沒回應就用存好的版本），讓離線也能打開
-const CACHE = 'gongtuo-fund-2026.11.19.6';
+const CACHE = 'gongtuo-fund-2026.11.19.7';
 const SHELL = ['./', 'index.html', 'style.css', 'app.js', 'data.js', 'sample.js', 'xlsx.js', 'manifest.webmanifest', 'icons/icon-192.png', 'icons/icon-180.png', 'icons/icon-512.png'];
 self.addEventListener('install', e => { e.waitUntil(caches.open(CACHE).then(c => c.addAll(SHELL.map(u => new Request(u, { cache: 'reload' }))))); self.skipWaiting(); });
 self.addEventListener('activate', e => {
